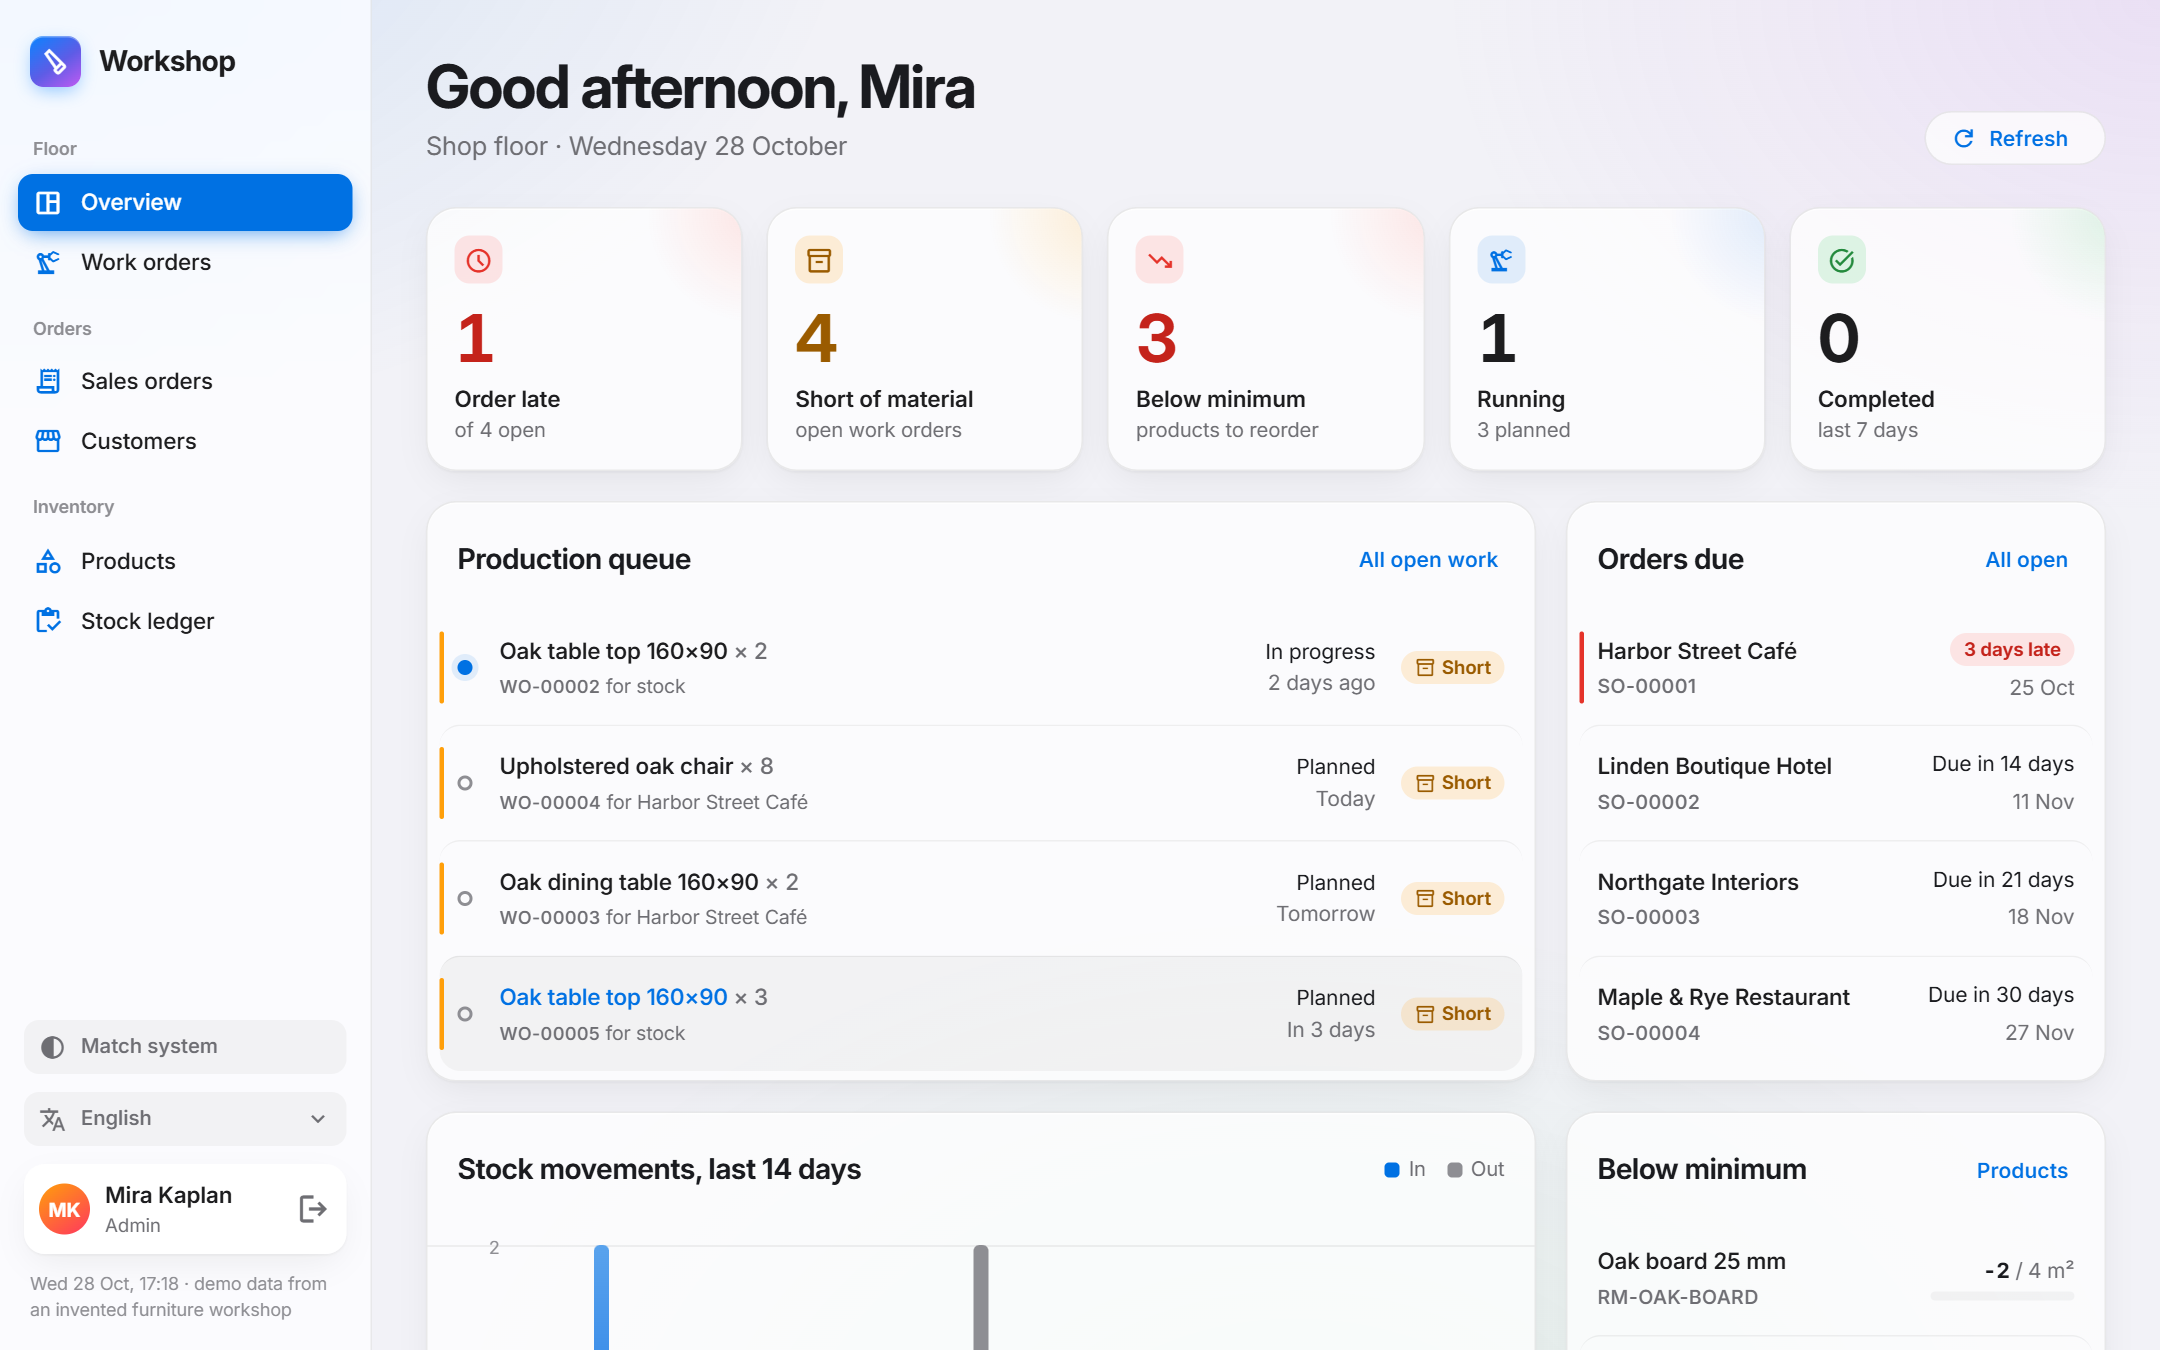
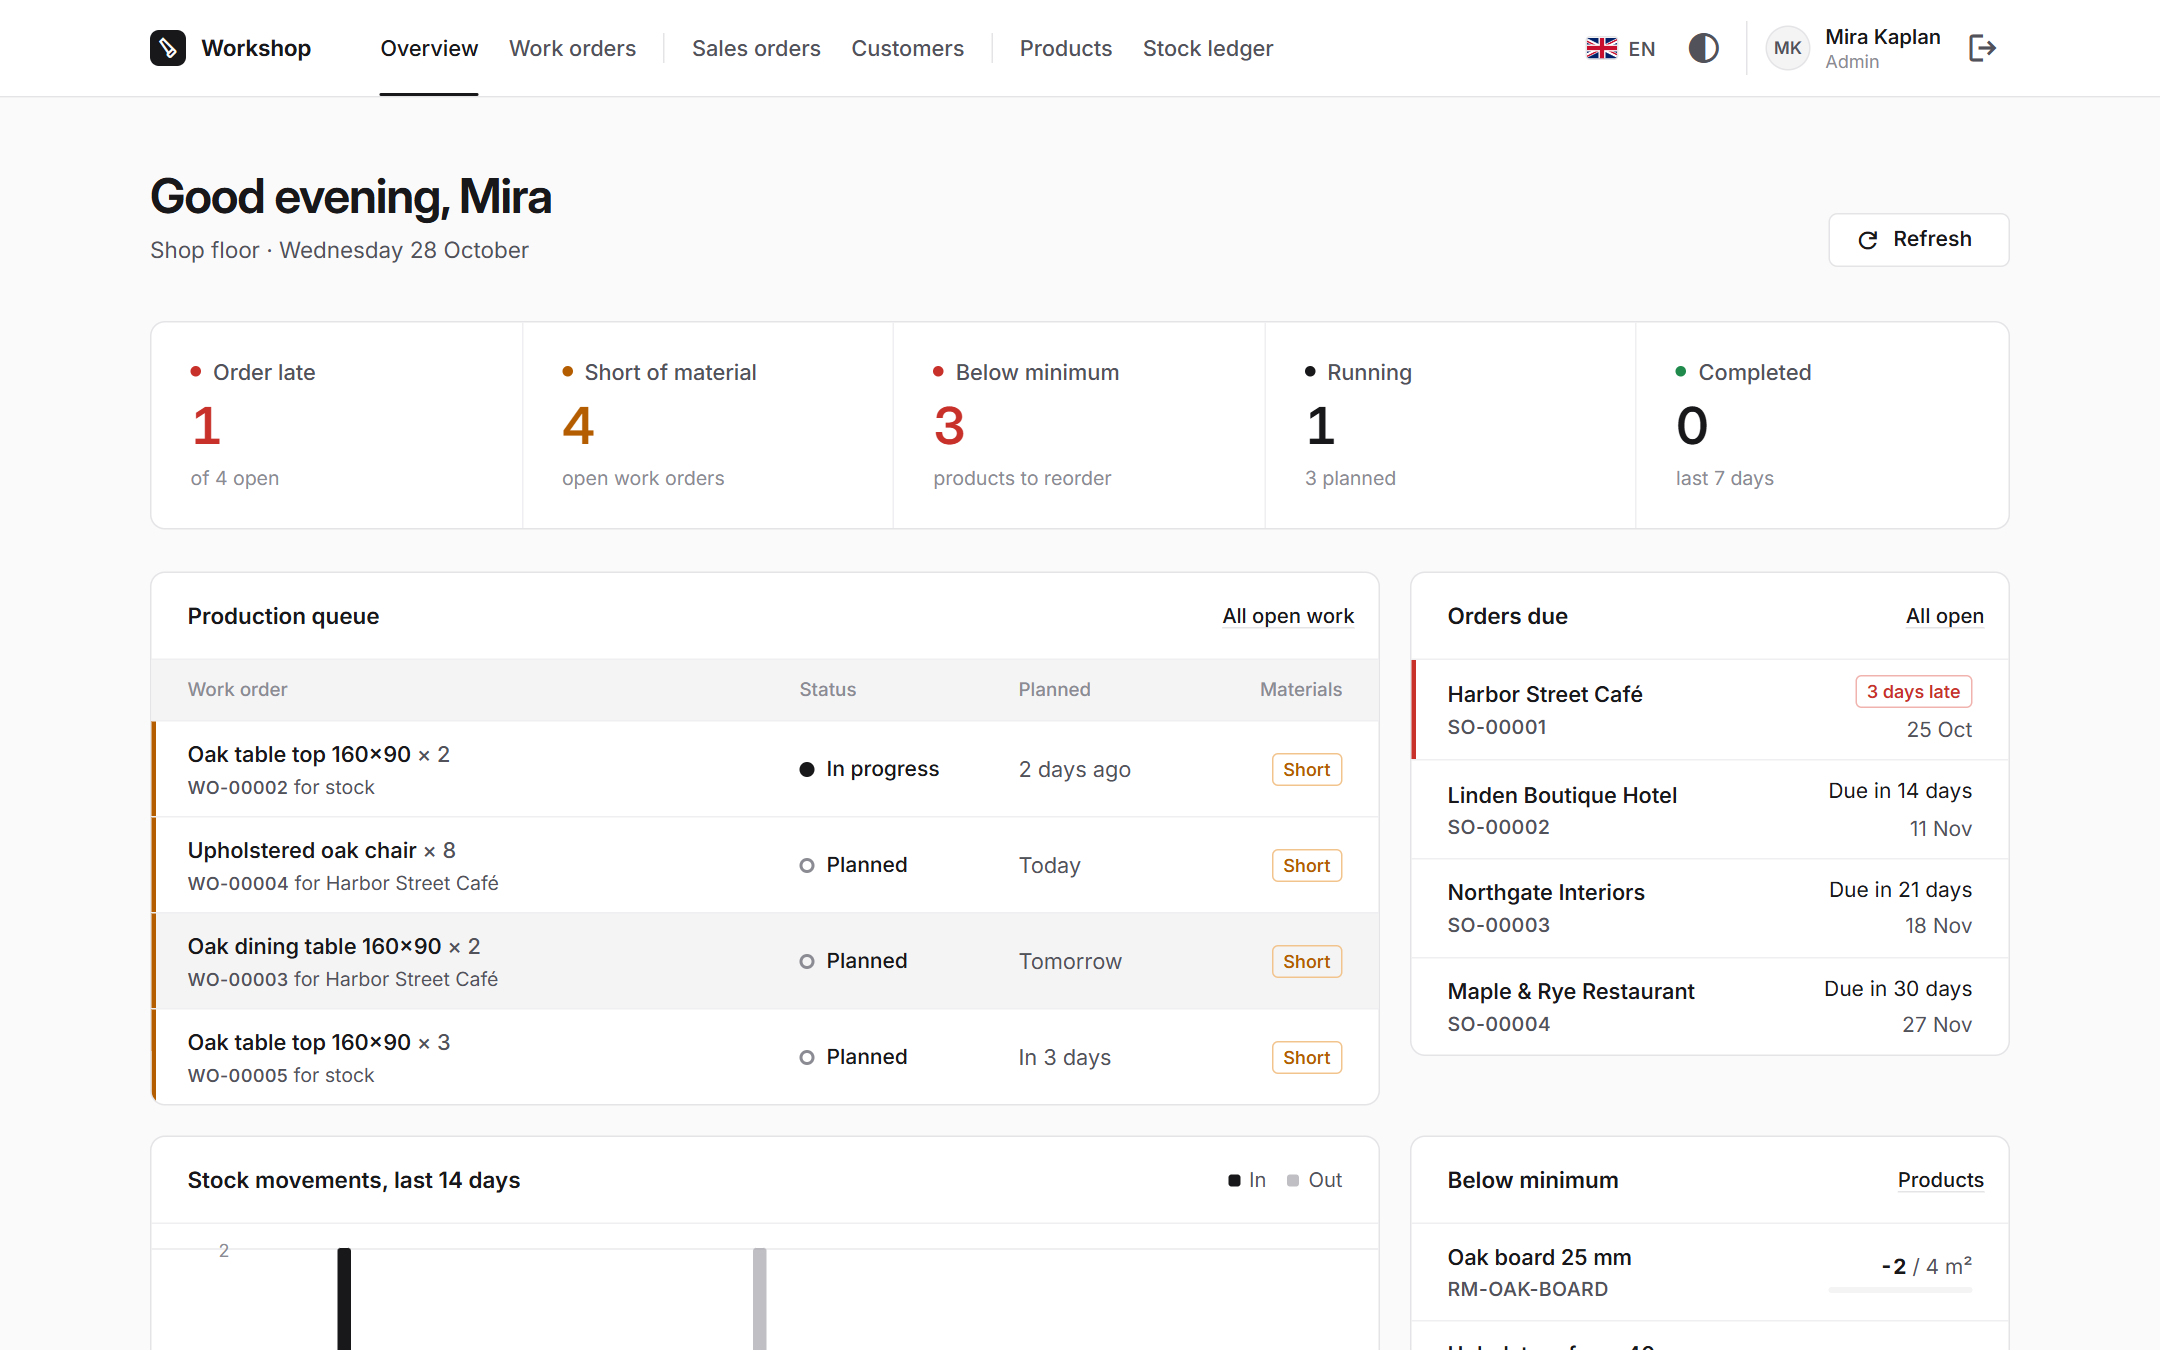
docs: README screenshots of the plain-tool redesign
Retaken from the live demo right after a demo reset, same six shots and
captions as before. The feature table now says the screens work down to
phone width.

diff --git a/CLAUDE.md b/CLAUDE.md
@@ -274,16 +274,13 @@ would break it until the nightly reset).
   - [x] **Plain-tool redesign** (owner request 2026-10-28: the glass look read as "AI-made"): plain tool, roomy
         spacing, **black accent**, navigation in a **top bar**, the greeting kept (see *Design rules*). Spec and plan
         in `docs/superpowers/`; built on `feat/plain-tool-redesign`, one PR.
-  - [ ] README screenshots retaken after the redesign is live, README updated
+  - [x] README screenshots retaken from the live demo after the redesign (#36)
   - [ ] 1–2 min demo video, recorded last on the final UI: Claude records the raw run with Playwright, the owner
         adds captions (Clipchamp). Story: late order → shortage after reservations → BOM → complete → outputs.
 
 ### Next session
 
-1. Owner reviews and merges the redesign PR.
-2. After the deploy: retake the README screenshots from the live demo (right after running *Demo reset*), update
-   the README.
-3. Record the demo video on the final UI.
+1. Record the demo video on the final UI.
 
 The owner wants a mockup before any large visual change (the redesign started with a static HTML mockup).
 

diff --git a/README.md b/README.md
@@ -22,7 +22,7 @@ their share**.
 | **Dashboard** | Late orders, work orders short of material, products below minimum (on available, not just on hand), the production queue and a weekly production chart. |
 | **Outputs** | Work order PDF, Excel export of every list, Excel import of products and opening stock (preview first, all or nothing). |
 | **Roles** | Admin, Planner and Warehouse, each seeing only the actions it may take. The API enforces every permission. |
-| **Everything else** | Light and dark theme, six languages (English, Turkish, German, French, Spanish, Italian). |
+| **Everything else** | Light and dark theme, works from a phone (390px) up to a wide screen, six languages (English, Turkish, German, French, Spanish, Italian). |
 
 | Material shortage after reservations | Multi-level bill of materials |
 | --- | --- |
